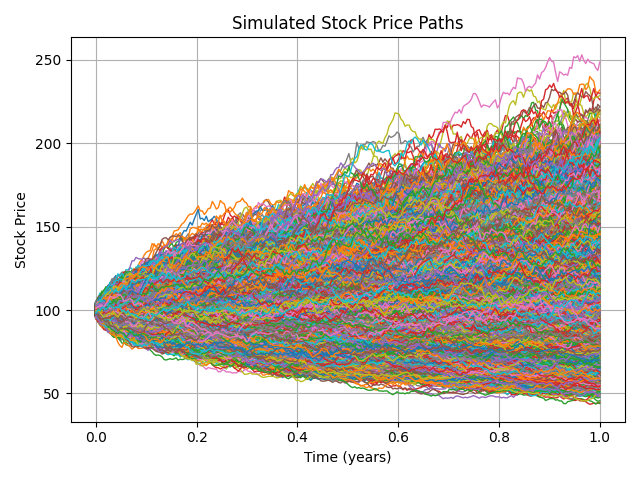
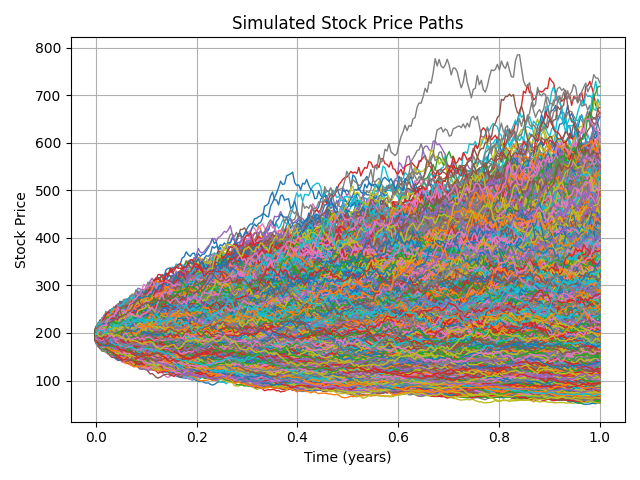
now takes recent apple value (from yfinance library) and plots based on that

diff --git a/monte/option_pricer_function.py b/monte/option_pricer_function.py
@@ -1,5 +1,6 @@
 import numpy as np
 import matplotlib.pyplot as plt
+import yfinance as yf
 
 
 def path_simulate(st,r,T,sigma,number_of_steps,number_of_paths):
@@ -42,12 +43,16 @@ def plot_paths(sum_paths, T):
 
 
 if __name__ == "__main__":
-    st=100
-    K=100
+    ticker = yf.Ticker("AAPL")
+    data = ticker.history(period="1y", interval="1d")
+    st=data["Close"][-1]
+    log_returns = np.log(data["Close"] / data["Close"].shift(1)).dropna()
+    daily_vol = np.std(log_returns)
+    sigma = daily_vol * np.sqrt(252)
+    K=st
     r=0.05
     T=1
     call_or_put='put'
-    sigma=0.2
     number_of_steps=252
     number_of_paths=100000
     sum_paths = path_simulate(st,r,T,sigma,number_of_steps,number_of_paths)
